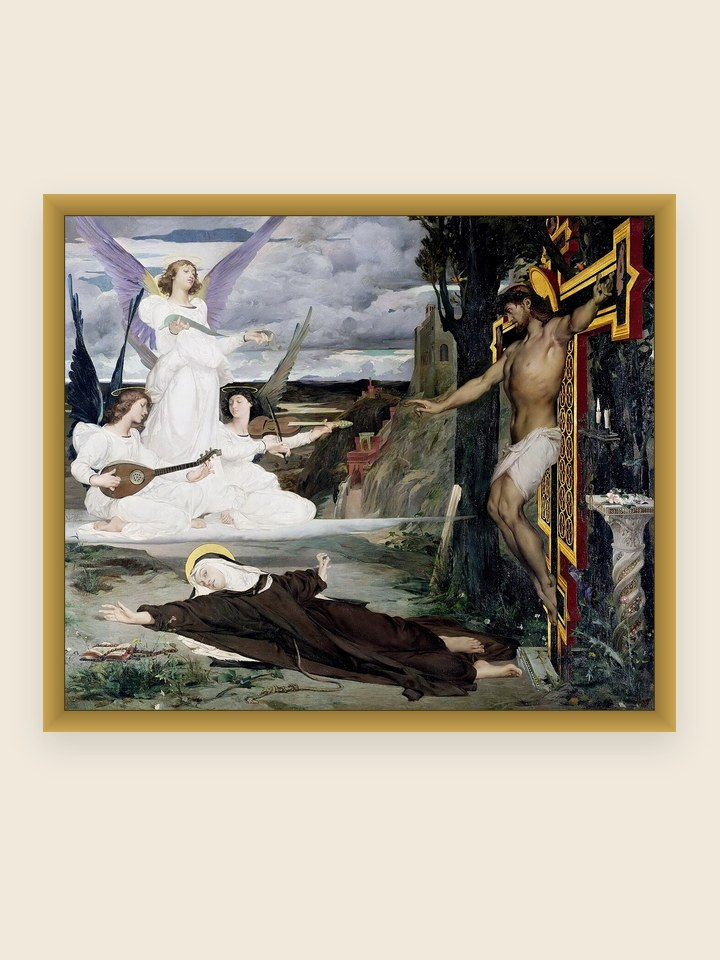
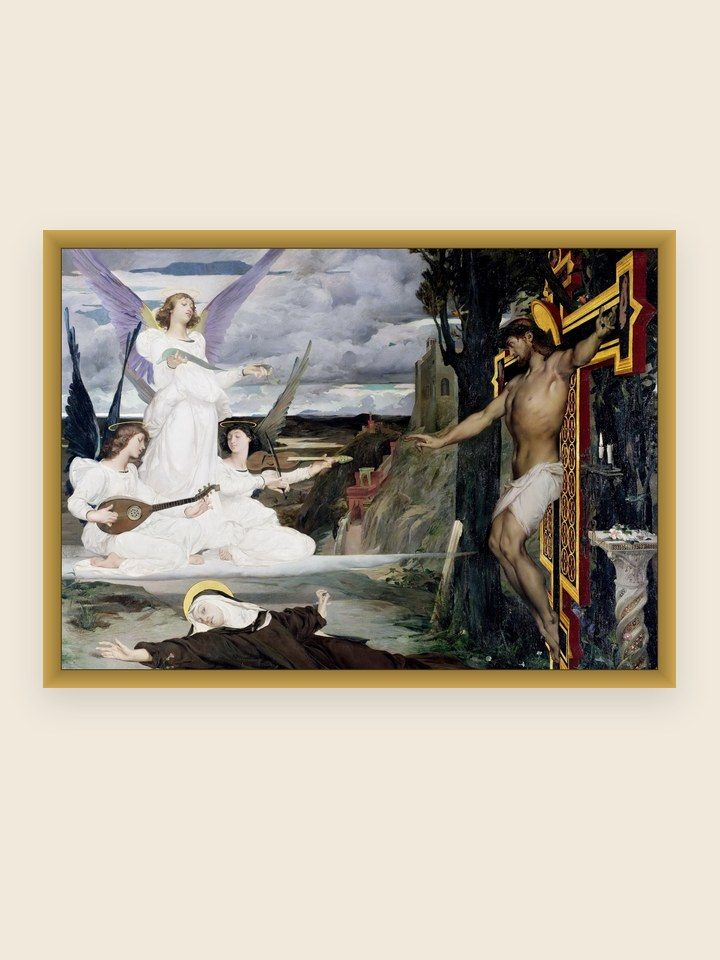
살롱 수집품 = 전시장에 걸린 가로로 긴 재단본(salon_03) — 그림 전체 원본(m_vision)이라 비율이 달라 줄어 보이던 것

diff --git a/design/experience-v3/xr8/salon-scan.html b/design/experience-v3/xr8/salon-scan.html
@@ -26,7 +26,7 @@
   window.__noXR = q.get('done') === '1' && ag.indexOf('salon') < 0;
   // 11/28 정답 그림을 골라 떠오른 채로 새로 열림(lift=1) — 첫 화면부터 흰 바탕 + 가운데 그 그림(엔진을 끄려고 새로 연 페이지에서 끊김 없이 이어 감, done.js liftRect 와 같은 자리)
   window.__lift = q.get('lift') === '1' && q.get('done') === '1';
-  if (window.__lift) document.write('<style>html,body{background:#fff!important}.start,.top,.hint{display:none!important}</style><div id="lift0" style="position:fixed;inset:0;z-index:9400;background:#fff"><img src="../img/lift_salon.webp" alt="" style="position:absolute;object-fit:contain;filter:drop-shadow(0 14px 22px rgba(40,28,16,.28));' + (function () { var W = innerWidth, H = innerHeight, a = 633 / 538, w = Math.min(W * 0.72, 330), h = w / a; if (h > H * 0.42) { h = H * 0.42; w = h * a; } return 'left:' + (W - w) / 2 + 'px;top:' + (H * 0.42 - h / 2) + 'px;width:' + w + 'px;height:' + h + 'px'; })() + '"></div>');
+  if (window.__lift) document.write('<style>html,body{background:#fff!important}.start,.top,.hint{display:none!important}</style><div id="lift0" style="position:fixed;inset:0;z-index:9400;background:#fff"><img src="../img/lift_salon.webp" alt="" style="position:absolute;object-fit:contain;filter:drop-shadow(0 14px 22px rgba(40,28,16,.28));' + (function () { var W = innerWidth, H = innerHeight, a = 633 / 458, w = Math.min(W * 0.72, 330), h = w / a; if (h > H * 0.42) { h = H * 0.42; w = h * a; } return 'left:' + (W - w) / 2 + 'px;top:' + (H * 0.42 - h / 2) + 'px;width:' + w + 'px;height:' + h + 'px'; })() + '"></div>');
   if (!window.__noXR) document.write('<script src="https://cdn.jsdelivr.net/npm/@8thwall/xrextras@1.0.0/dist/xrextras.js" crossorigin="anonymous"><\/script><script src="https://cdn.jsdelivr.net/npm/@8thwall/engine-binary@1.0.0/dist/xr.js" async crossorigin="anonymous" data-preload-chunks="slam"><\/script>');
 })();
 </script>

diff --git a/design/experience-v3/done.js b/design/experience-v3/done.js
@@ -225,7 +225,7 @@ export function showComplete(zoneId, { item, title = '', body = '', note = '', m
 //   ② 가운데로 옮겨 가는 동안 깨끗한 수집품 그림(lift_<id>.webp, 카드 속 물건과 똑같은 것)으로 바뀌고 뒤에 흰 바탕이 깔린다
 //   ③ 완료 화면(complete())이 뜨면 그 그림이 카드 속 물건 자리로 정확히 내려앉아 카드가 된다 — 잘리거나 지저분한 사진이 남지 않게
 //   lifted: 이미 가운데에 떠 있는 상태로 시작 · hold: 가운데까지만(살롱 · 해돋이 8th Wall 은 엔진을 끄려고 hold 로 멈춘 뒤 페이지를 새로 열어 lifted 로 이어 감)
-const LIFT = { salon: [43, 194, 633, 538], flyer: [91, 134, 538, 667], ticket: [43, 284, 633, 342], paint: [64, 162, 592, 606], sunrise: [43, 211, 633, 500] };   // 카드(720×960) 안 물건 자리 — kippu-app/scripts/collect/lift_objs.py
+const LIFT = { salon: [43, 230, 633, 458], flyer: [91, 134, 538, 667], ticket: [43, 284, 633, 342], paint: [64, 162, 592, 606], sunrise: [43, 211, 633, 500] };   // 카드(720×960) 안 물건 자리 — kippu-app/scripts/collect/lift_objs.py
 export function liftRect(id) {
   const [, , w0, h0] = LIFT[id], a = w0 / h0, W = innerWidth, H = innerHeight;
   let w = Math.min(W * 0.72, 330), h = w / a;

diff --git a/design/experience-v3/data.js b/design/experience-v3/data.js
@@ -54,7 +54,7 @@ export const ZONES = [
       successBody: '',   // 11/26 사용자: 완료 화면 해설 두 문단 뺌
       successGuide: '내 수집품에 추가되었습니다.\n변화의 복도로 이동해 주세요.',
       after: '아카데미 살롱은 그 시대 아름다움의 기준을 정했다.\n그러나 시대는 이미 그 기준을 넘어 움직이고 있었다.',
-      item: { name: '1등급 메달 수상 그림', sub: '메르송 〈환영: 14세기의 전설〉, 1872', img: 'img/m_vision.jpg' },
+      item: { name: '1등급 메달 수상 그림', sub: '메르송 〈환영: 14세기의 전설〉, 1872', img: 'img/salon_03.jpg' },   // 11/28 전시장에 걸린 재단본(가로로 긴 것)
     }],
   },
   {
